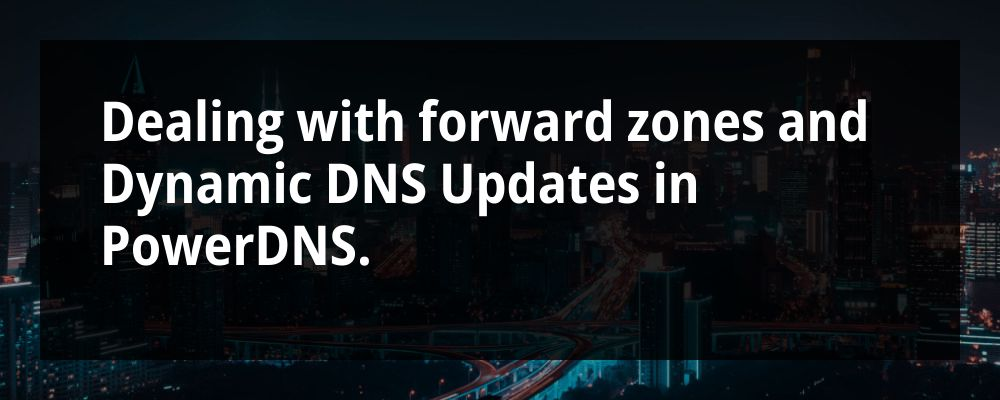
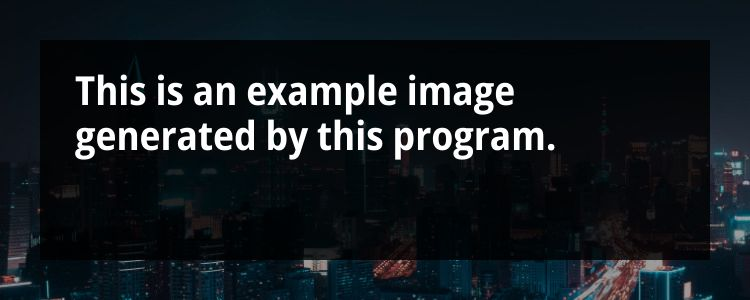
Make text margins dependent on the image width, add a more appropriate example image

diff --git a/main.go b/main.go
@@ -46,8 +46,8 @@ func main() {
 	}
 
 	textColor := color.RGBA{255, 255, 255, 255}
-	textRightMargin := 100.0
-	textTopMargin := 100.0
+	textRightMargin := float64(*width / 10.0)
+	textTopMargin := float64(*width / 10.0)
 	x = textRightMargin
 	y = textTopMargin
 	maxWidth := float64(image.Width()) - textRightMargin - textRightMargin

diff --git a/README.md b/README.md
@@ -1,6 +1,7 @@
 ## About
 This program generates a header image for my blog at [https://dylans.blog](http://dylans.blog).
 
+![An example header](https://github.com/dylantic/blogimagegen/blob/main/header.jpeg?raw=true)
 
 ## How to use it
 Either run it directly with `go run main.go` or `go build` it and run the binary.
